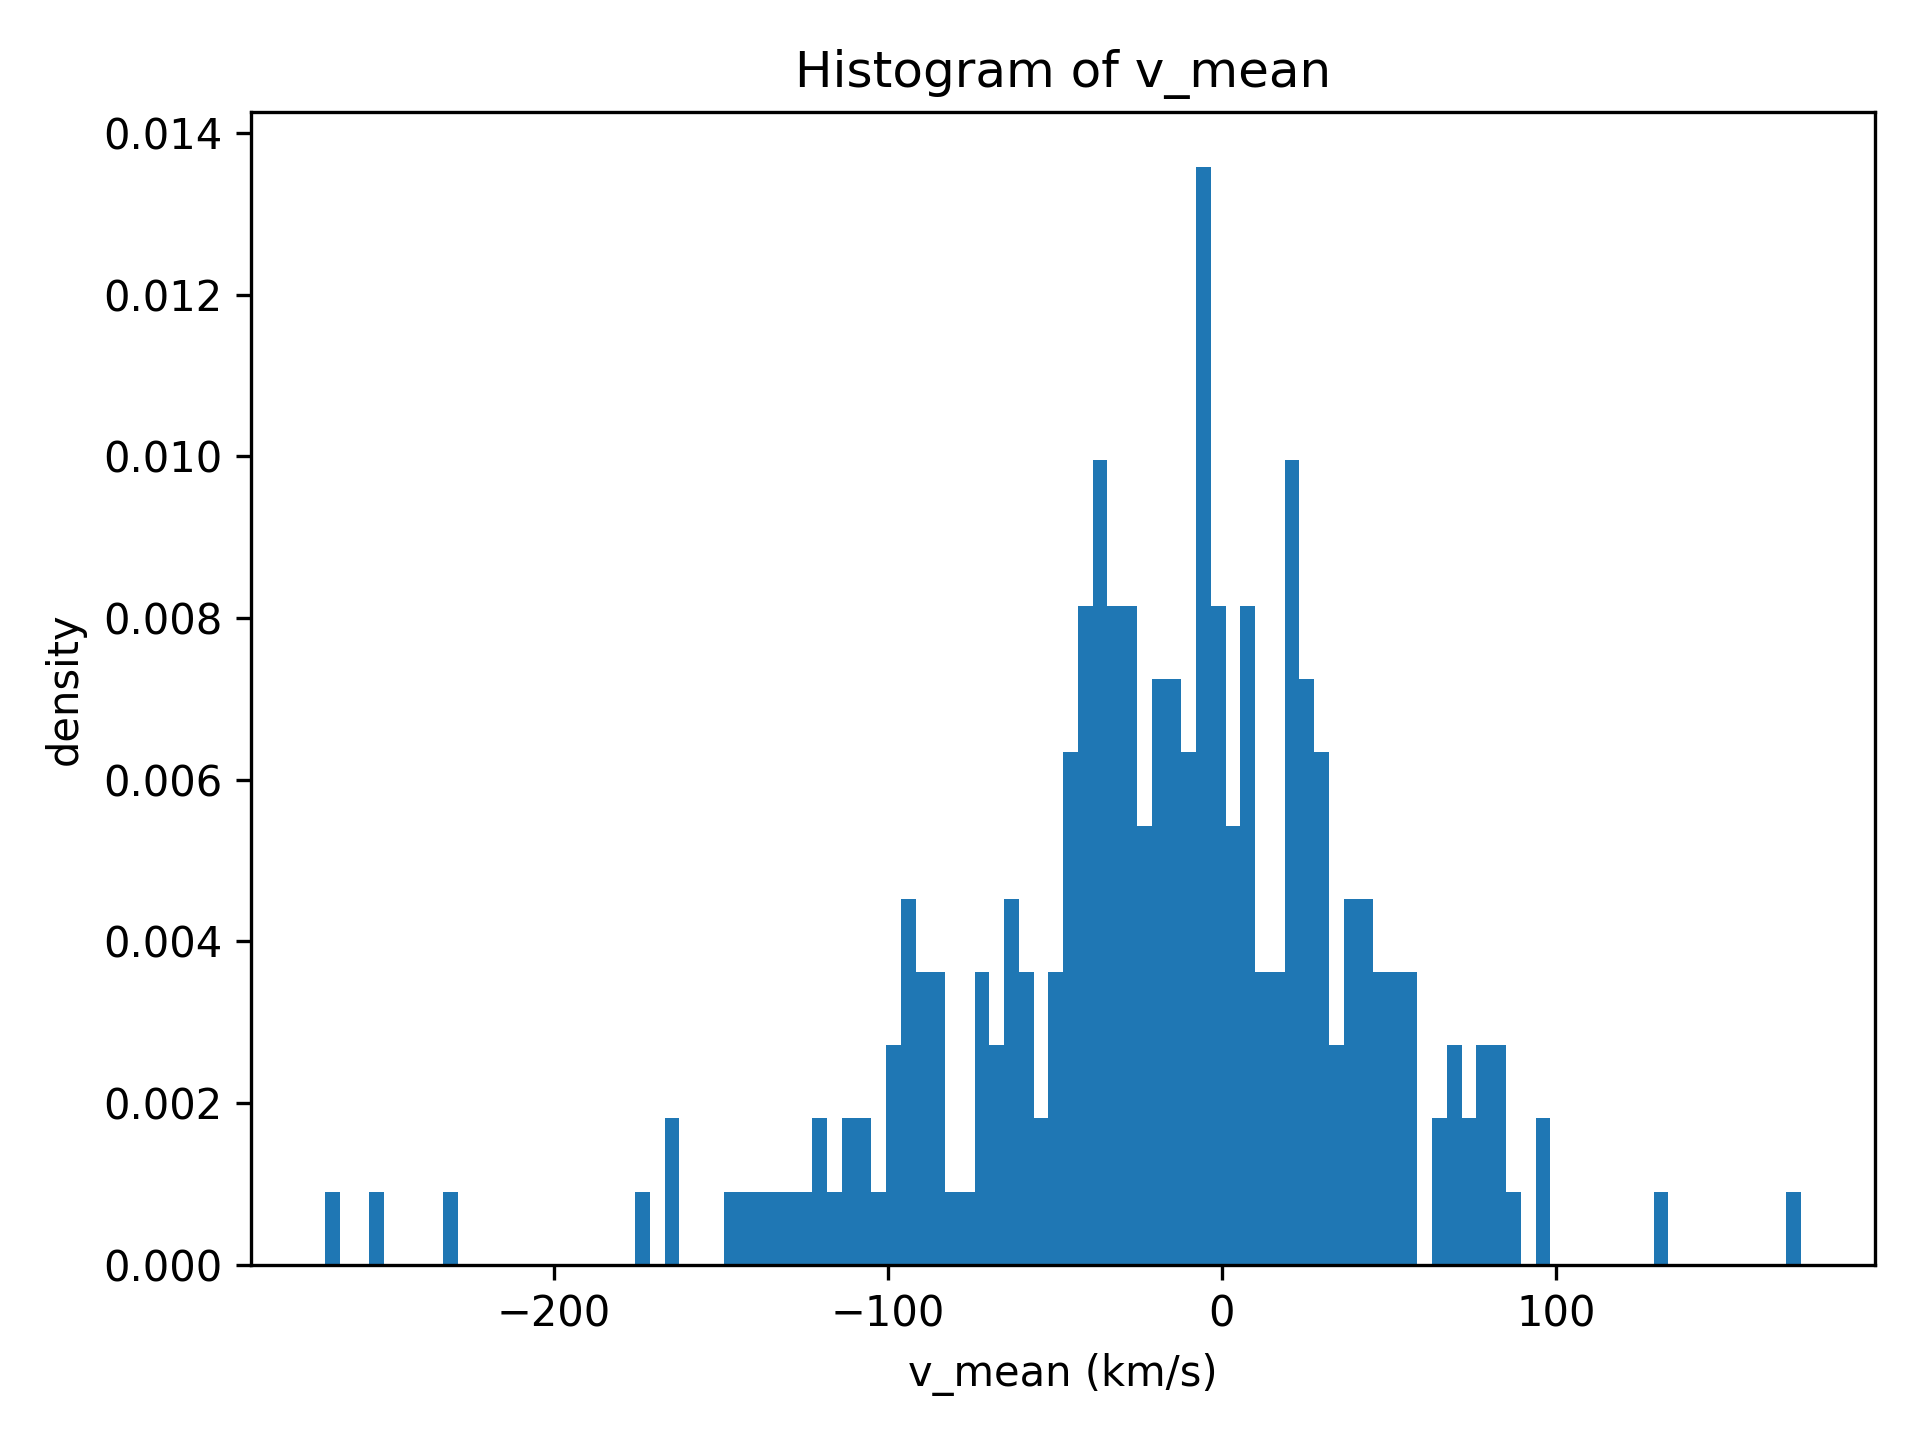
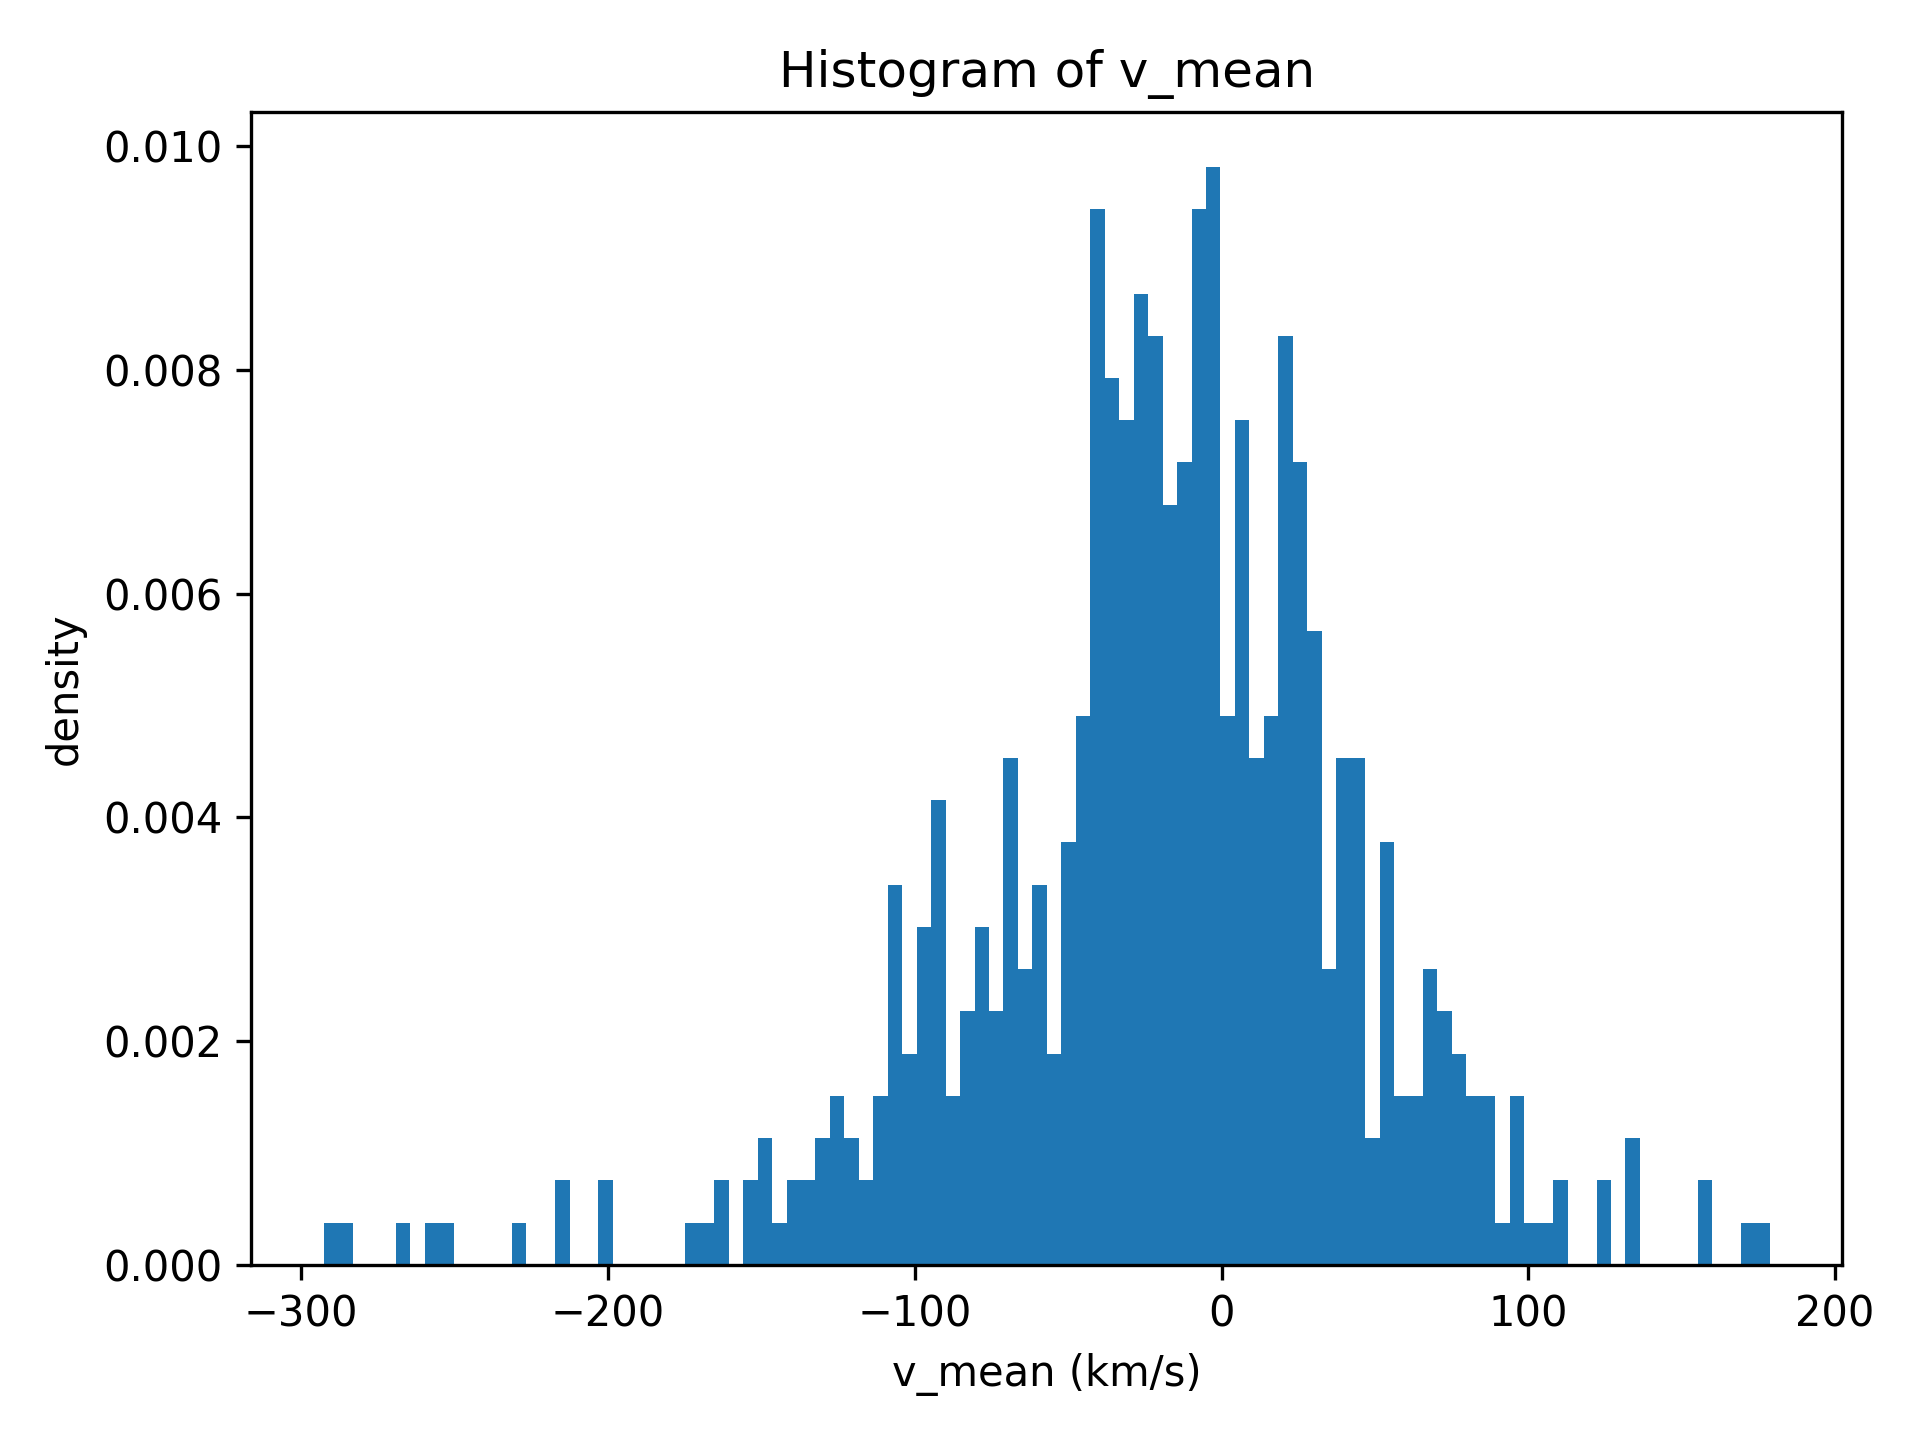
additional check if obsid matches in result files

diff --git a/result_analyser.py b/result_analyser.py
@@ -16,6 +16,27 @@ if __name__ == '__main__':
     corr_list_path = os.path.join(work_dir, 'results_corr.txt')
     corr_dict = read_list_file(corr_list_path)
 
+    # mask if the obsid not match among three files
+    obsid_arr = res_arr['obsid']
+    obsid_mask = []
+    for obsid in obsid_arr:
+        if obsid in v_dict.keys() and obsid in corr_dict.keys():
+            obsid_mask.append(True)
+        else:
+            obsid_mask.append(False)
+    obsid_mask = np.array(obsid_mask)
+    res_arr = res_arr[obsid_mask]
+    obsid_arr = obsid_arr[obsid_mask]
+
+    # drop masked data in dict
+    v_dict = {k: v for k, v in v_dict.items() if k in obsid_arr}
+    corr_dict = {k: v for k, v in corr_dict.items() if k in obsid_arr}
+
+    # report mask status
+    total_count = len(obsid_mask)
+    mask_count = len(obsid_mask) - np.sum(obsid_mask)
+    print('Total count: {}, Masked count: {}'.format(total_count, mask_count))
+
     # plot
     n_bins = 100
 
@@ -42,6 +63,18 @@ if __name__ == '__main__':
     ax.set_title('Histogram of v_mean - v_lamost')
     plt.tight_layout()
     fig_save_path = os.path.join(work_dir, 'v_mean_v_lamost_hist.png')
+    fig.savefig(fig_save_path, dpi=300)
+    plt.close()
+
+    # histogram of v_lamost
+    fig = plt.figure()
+    ax = fig.add_subplot(111)
+    ax.hist(v_lamost_arr, bins=n_bins, density=True)
+    ax.set_xlabel('v_lamost (km/s)')
+    ax.set_ylabel('density')
+    ax.set_title('Histogram of v_lamost')
+    plt.tight_layout()
+    fig_save_path = os.path.join(work_dir, 'v_lamost_hist.png')
     fig.savefig(fig_save_path, dpi=300)
     plt.close()
 
@@ -207,5 +240,54 @@ if __name__ == '__main__':
     fig.suptitle('Histogram of v - v_lamost for all segments [-50, 50]')
     plt.tight_layout()
     fig_save_path = os.path.join(work_dir, 'v_v_lamost_seg_hist_50.png')
+    fig.savefig(fig_save_path, dpi=300)
+    plt.close()
+
+    # histogram of v for all segments
+    fig = plt.figure(figsize=(6, 10))
+    gs = fig.add_gridspec(nrows, hspace=0)
+    axs = gs.subplots(sharex=True)
+    for i, ax in enumerate(axs):    # i for each segment
+        vs = []
+        for j, obsid in enumerate(obsid_arr):   # j for each obsid
+            v_this = v_dict[obsid][i]
+            vs.append(v_this)
+        vs = np.array(vs)
+        ax.hist(vs, bins=n_bins, density=True, label=seg_labels[i])
+        ax.legend(loc='upper right')
+        if i == 0:
+            ax.set_ylabel('density')
+        if i == nrows - 1:
+            ax.set_xlabel('v (km/s)')
+        ax.axvline(0, color='k', linestyle='--', linewidth=0.5, alpha=0.8)
+    fig.suptitle('Histogram of v for all segments')
+    plt.tight_layout()
+    fig_save_path = os.path.join(work_dir, 'v_seg_hist.png')
+    fig.savefig(fig_save_path, dpi=300)
+    plt.close()
+
+    # histogram of v for all segments in [-200, 200]
+    fig = plt.figure(figsize=(6, 10))
+    gs = fig.add_gridspec(nrows, hspace=0)
+    axs = gs.subplots(sharex=True)
+    for i, ax in enumerate(axs):    # i for each segment
+        vs = []
+        for j, obsid in enumerate(obsid_arr):   # j for each obsid
+            v_this = v_dict[obsid][i]
+            if v_this < -200 or v_this > 200:
+                continue
+            vs.append(v_this)
+        vs = np.array(vs)
+        ax.hist(vs, bins=n_bins, density=True, label=seg_labels[i])
+        ax.legend(loc='upper right')
+        if i == 0:
+            ax.set_ylabel('density')
+        if i == nrows - 1:
+            ax.set_xlabel('v (km/s)')
+        ax.axvline(0, color='k', linestyle='--', linewidth=0.5, alpha=0.8)
+        ax.set_xlim([-200, 200])
+    fig.suptitle('Histogram of v for all segments [-200, 200]')
+    plt.tight_layout()
+    fig_save_path = os.path.join(work_dir, 'v_seg_hist_200.png')
     fig.savefig(fig_save_path, dpi=300)
     plt.close()
